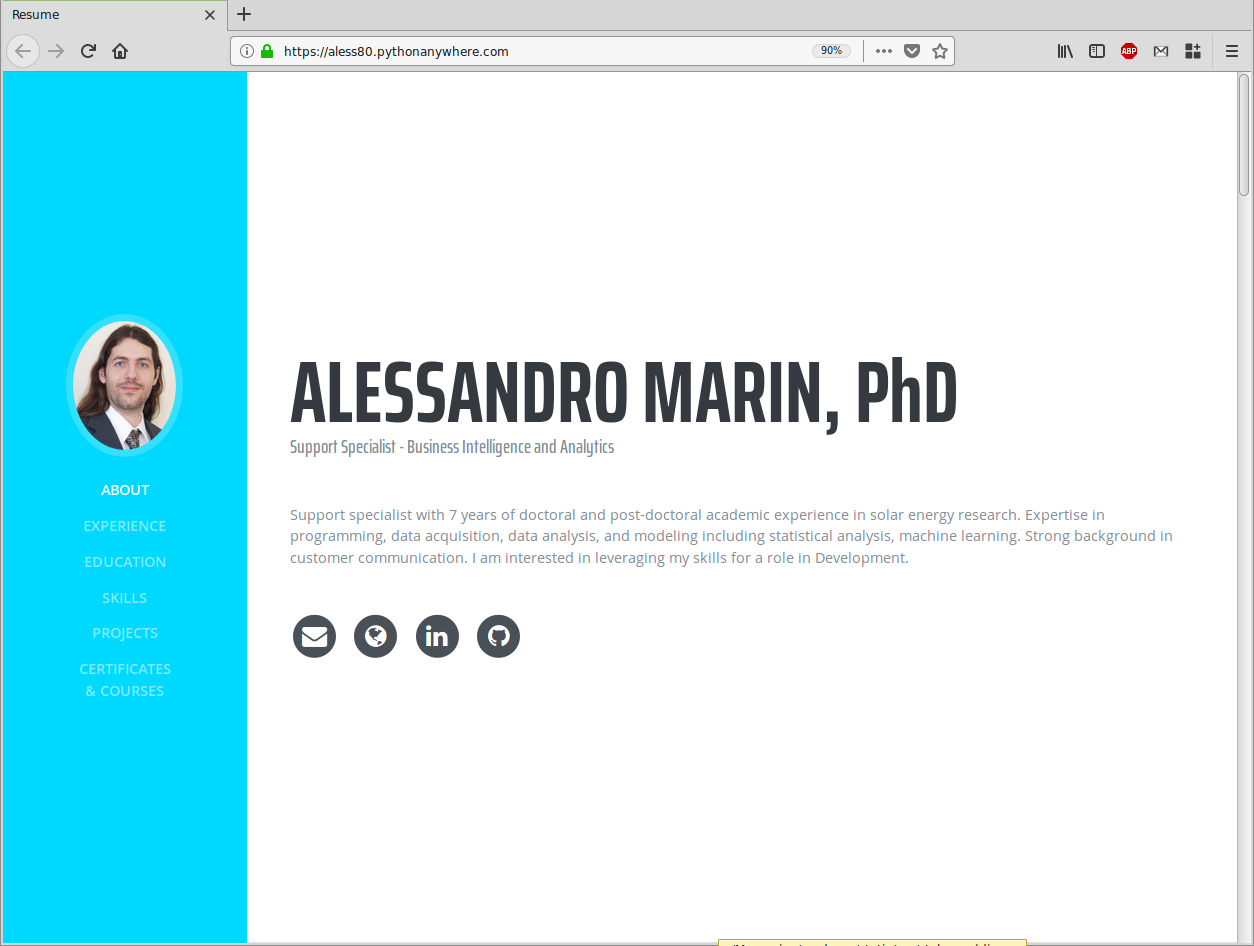
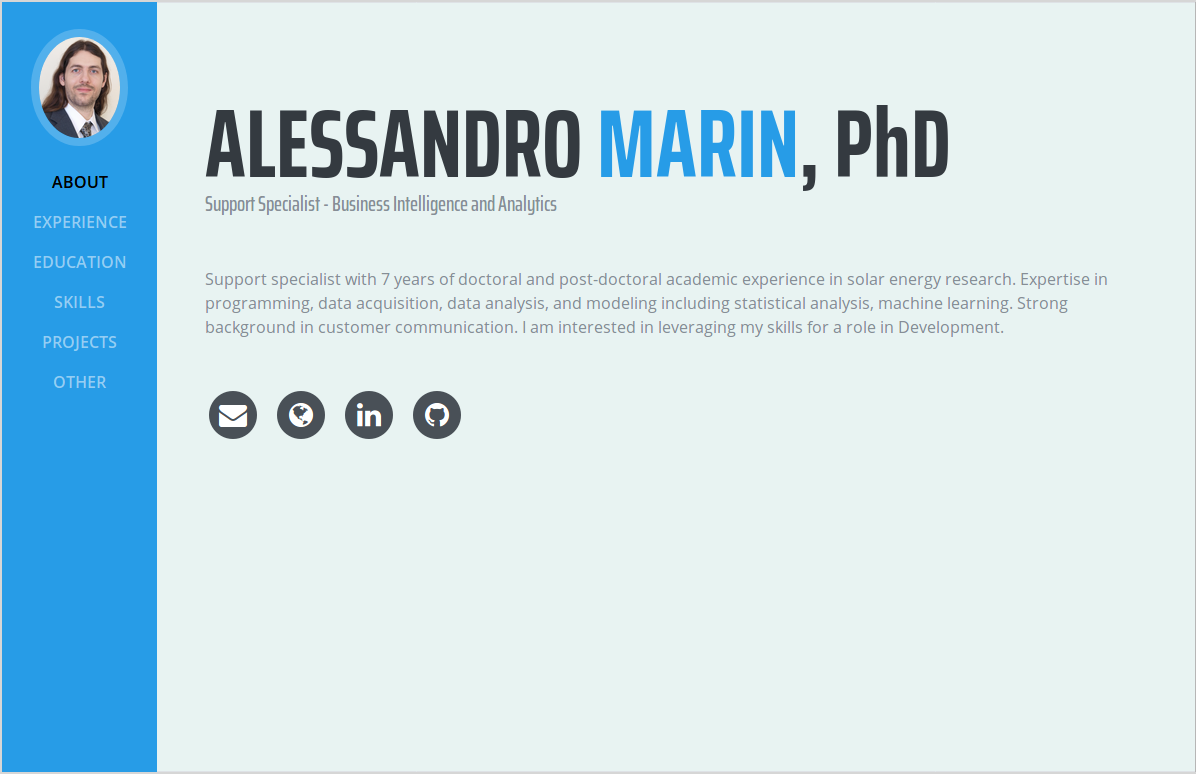
Mon Apr  9 09:17:29 EDT 2018

diff --git a/resume/static/resume/css/resume-overrides.css b/resume/static/resume/css/resume-overrides.css
@@ -6,20 +6,20 @@ body {
 .subheading{text-transform: none;}
 
 .subheading{text-transform:none;font-weight:500;font-family:'Saira Extra Condensed',serif;font-size:1.35rem}
-.bg-primary{background-color:rgb(0, 217, 255)!important}
+.bg-primary{background-color:rgb(39, 156, 231)!important}
 
 .text-primary{
-    /* color:rgb(0, 217, 255)!important} */
+    /* color:rgb(39, 156, 231)!important} */
     color:#868e96!important;
 }
 
 a {
-  color:rgb(0, 217, 255);
+  color:rgb(39, 156, 231);
 }
 a:active,a:focus,a:hover{color:rgb(0, 26, 255)}
 
 .primary {
-  color:rgb(0, 217, 255);
+  color:rgb(39, 156, 231);
 }
 .strong-underlined {
   font-weight: bolder;
@@ -96,7 +96,7 @@ section.resume-section .resume-item .resume-date{min-width:15rem}
 /* Thumb images and modals */
 .thumb {
       height: 200px;
-      background-color: rgb(0, 217, 255);
+      background-color: rgb(39, 156, 231);
       background-size: contain;
       background-repeat: no-repeat;
       background-position: center center;
@@ -135,7 +135,7 @@ backdrop-filter: blur(5px);
     top: 50%;
     left: 0%;
     text-align: center;
-    color:rgb(0, 217, 255);
+    color:rgb(39, 156, 231);
 }
 .thumb:hover > .launcher {
     opacity:1;
